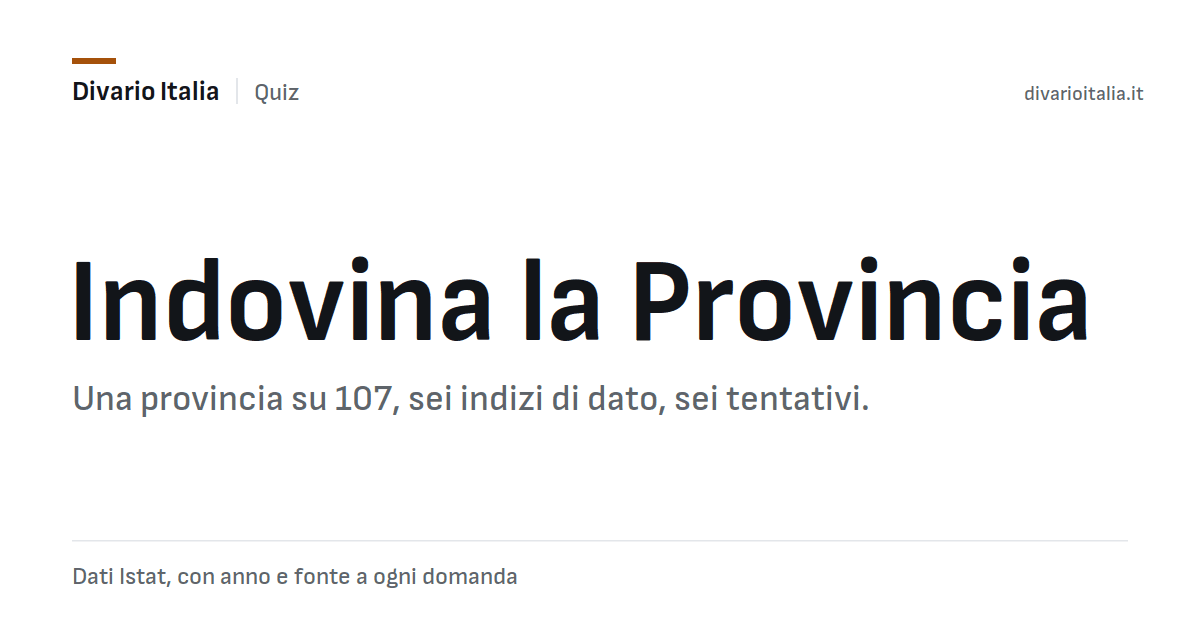
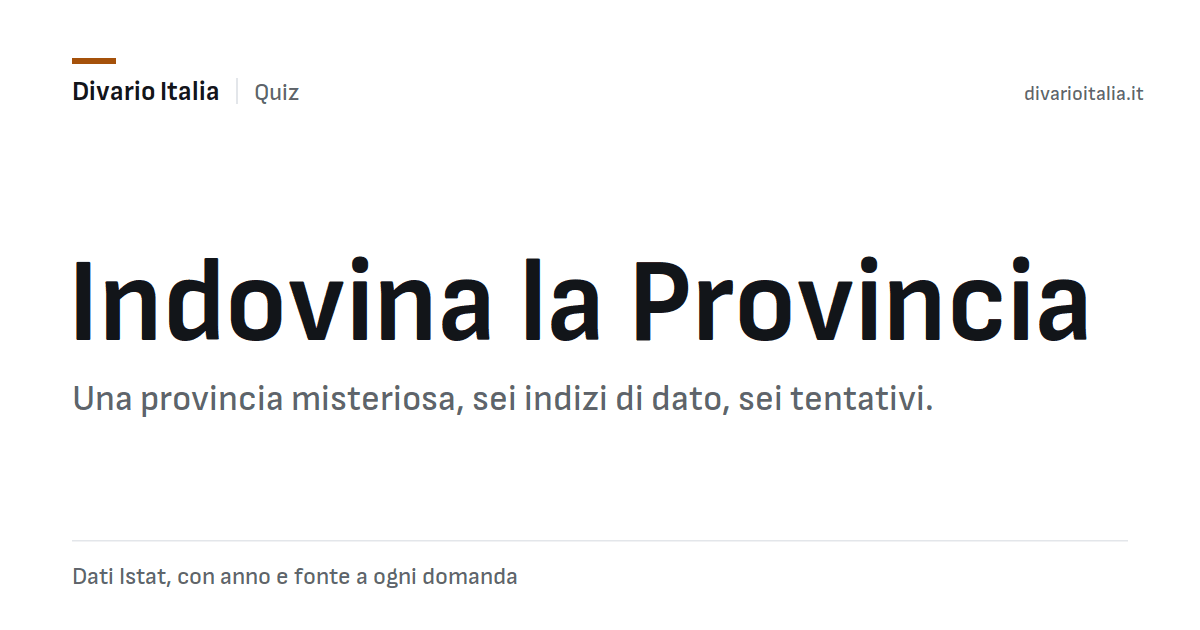
La quinta carta dell'hub: sottomenu, ItemList, home, sitemap e immagine da condividere di «Dov'è la provincia?»; Indovina la Provincia rimanda alla mappa e non dice più il numero delle province nella sua immagine

Changed region(s): [[0.2467, 0.6032, 0.7708, 0.6635]]

diff --git a/app/templates/game_hub.html b/app/templates/game_hub.html
@@ -5,7 +5,7 @@
 {% set game_active = 'hub' %}
 
 {% block title %}Sfida Italia: il quiz sui dati Istat | {{ site_name }}{% endblock %}
-{% block description %}Quattro giochi sui dati Istat di regioni e province: indovina la regione o la provincia, chi è maggiore, ordina la classifica. Fonte e anno in evidenza.{% endblock %}
+{% block description %}Cinque giochi sui dati Istat e sulla geografia: indovina regione e provincia, chi è maggiore, ordina la classifica, trova la provincia sulla mappa.{% endblock %}
 
 {% block head_extra %}
 <link rel="stylesheet" crossorigin href="{{ asset_url('dist/assets/game.css') }}">
@@ -17,12 +17,13 @@
   "@type": "ItemList",
   "name": "I giochi di Sfida Italia",
   "url": {{ canonical | tojson }},
-  "numberOfItems": 4,
+  "numberOfItems": 5,
   "itemListElement": [
     { "@type": "ListItem", "position": 1, "name": "Indovina la Regione", "url": "{{ site_url }}/quiz/indovina-la-regione" },
     { "@type": "ListItem", "position": 2, "name": "Chi è maggiore?", "url": "{{ site_url }}/quiz/chi-e-maggiore" },
     { "@type": "ListItem", "position": 3, "name": "Ordina le regioni", "url": "{{ site_url }}/quiz/ordina" },
-    { "@type": "ListItem", "position": 4, "name": "Indovina la Provincia", "url": "{{ site_url }}/quiz/indovina-la-provincia" }
+    { "@type": "ListItem", "position": 4, "name": "Indovina la Provincia", "url": "{{ site_url }}/quiz/indovina-la-provincia" },
+    { "@type": "ListItem", "position": 5, "name": "Dov'è la provincia?", "url": "{{ site_url }}/quiz/province-italiane" }
   ]
 }
 </script>
@@ -41,7 +42,7 @@
     <div class="hub-layout__hero">
       <header class="page-hero">
         <h1>Quanto conosci l'Italia?</h1>
-        <p class="page-lead">Quattro giochi rapidi sugli indicatori territoriali Istat, con anno e fonte a ogni domanda e, a ogni risposta, che cosa misura davvero il dato.</p>
+        <p class="page-lead">Cinque giochi rapidi: quattro sugli indicatori territoriali Istat, con anno e fonte a ogni domanda, e uno per imparare dove stanno le province sulla mappa.</p>
       </header>
       <p class="hub-nota">Si gioca senza registrazione: i record restano su questo dispositivo. Con un account statistiche e traguardi ti seguono. Nelle <a href="/quiz/classifica">classifiche</a> si entra anche senza account, con un nickname.</p>
     </div>
@@ -84,6 +85,13 @@
             <a class="hub-card hub-oggi__gioco" href="/quiz/ordina">
               <span class="hub-oggi__nome"><span class="ico" style="--ico: url('{{ url_for('static', filename='img/gioco/ordina.svg') }}')" aria-hidden="true"></span>Ordina le regioni</span>
               <span class="hub-card-body">Dal valore più alto al più basso, un punto per ogni posizione giusta.</span>
+              <span class="hub-oggi__stato" data-oggi-stato>Gioca</span>
+            </a>
+          </li>
+          <li data-gioco="mappa">
+            <a class="hub-card hub-oggi__gioco" href="/quiz/province-italiane">
+              <span class="hub-oggi__nome"><span class="ico" style="--ico: url('{{ url_for('static', filename='img/gioco/mappa.svg') }}')" aria-hidden="true"></span>Dov'è la provincia?</span>
+              <span class="hub-card-body">Dieci nomi da trovare sulla mappa muta: ogni errore dice di quanto.</span>
               <span class="hub-oggi__stato" data-oggi-stato>Gioca</span>
             </a>
           </li>

diff --git a/app/templates/game_provincia.html b/app/templates/game_provincia.html
@@ -17,7 +17,7 @@
   "@context": "https://schema.org",
   "@type": "Game",
   "name": "Indovina la Provincia",
-  "description": "Quiz sulle province italiane: una provincia misteriosa da indovinare a partire dai dati Istat, con la mappa come aiuto.",
+  "description": "Una provincia italiana misteriosa da indovinare a partire dai dati Istat, con la mappa come aiuto.",
   "url": {{ canonical | tojson }},
   "isPartOf": { "@type": "WebSite", "name": "Divario Italia", "url": "{{ site_url }}/" },
   "creator": { "@type": "Organization", "name": "Divario Italia", "url": "{{ site_url }}/" },
@@ -36,9 +36,7 @@
 
   <header class="page-hero">
     <h1>Indovina la Provincia</h1>
-    {# Quando esistera' la pagina a mappa per imparare dove stanno le province, il lead rimanda li'
-       per chi vuole imparare e non giocare. Fino ad allora niente link a una pagina che non c'e'. #}
-    <p class="page-lead">Una provincia italiana misteriosa, i dati Istat come indizi, la mappa che ti dice quanto sei vicino.</p>
+    <p class="page-lead">Una provincia italiana misteriosa, i dati Istat come indizi, la mappa che ti dice quanto sei vicino. Per imparare dove stanno le province, prova <a href="/quiz/province-italiane">Dov'è la provincia?</a></p>
   </header>
 
   <div class="game-layout">

diff --git a/app/templates/_game_subnav.html b/app/templates/_game_subnav.html
@@ -5,6 +5,7 @@
     <a href="/quiz/indovina-la-provincia" class="game-tab{{ ' is-active' if game_active == 'provincia' else '' }}">Indovina la Provincia</a>
     <a href="/quiz/chi-e-maggiore" class="game-tab{{ ' is-active' if game_active == 'compare' else '' }}">Chi è maggiore?</a>
     <a href="/quiz/ordina" class="game-tab{{ ' is-active' if game_active == 'order' else '' }}">Ordina le regioni</a>
+    <a href="/quiz/province-italiane" class="game-tab{{ ' is-active' if game_active == 'mappa' else '' }}">Dov'è la provincia?</a>
     <a href="/quiz/classifica" class="game-tab{{ ' is-active' if game_active == 'classifica' else '' }}">Classifica</a>
   </nav>
 </div>

diff --git a/scripts/og_giochi.py b/scripts/og_giochi.py
@@ -1,4 +1,4 @@
-"""Disegna le quattro immagini da condividere dei giochi del Quiz.
+"""Disegna le cinque immagini da condividere dei giochi del Quiz.
 
 Una figura 1200x630 per gioco in `app/static/img/og/gioco-<nome>.png`: il
 marchio, il titolo del gioco in grande, una riga che dice che cosa si fa. Stessa
@@ -27,14 +27,19 @@ DESTINAZIONE = ROOT / "app" / "static" / "img" / "og"
 
 GIOCHI = {
     "indovina-regione": ("Indovina la Regione", "Una regione misteriosa, sei indizi Istat, sei tentativi."),
-    "indovina-provincia": ("Indovina la Provincia", "Una provincia su 107, sei indizi di dato, sei tentativi."),
+    "indovina-provincia": ("Indovina la Provincia", "Una provincia misteriosa, sei indizi di dato, sei tentativi."),
     "chi-e-maggiore": ("Chi è maggiore?", "Due territori, un indicatore: quale vale di più?"),
     "ordina": ("Ordina le regioni", "Dal valore più alto al più basso, con i dati veri."),
+    "province-italiane": ("Dov'è la provincia?", "Dieci province da trovare sulla mappa muta, e ogni errore dice di quanto."),
 }
 
+# La riga in fondo dice di che cosa e' fatto il gioco: la mappa e' fatta di confini, non di indicatori.
+PIEDE = {"province-italiane": "Confini delle province Istat, 2023"}
+PIEDE_PREDEFINITO = "Dati Istat, con anno e fonte a ogni domanda"
 
-def svg(titolo: str, riga: str, m: t.Measurer) -> str:
-    for testo in (titolo, riga):
+
+def svg(titolo: str, riga: str, m: t.Measurer, piede: str = PIEDE_PREDEFINITO) -> str:
+    for testo in (titolo, riga, piede):
         for ch in t.FORBIDDEN:
             assert ch not in testo, testo
     larghezza = t.WIDTH - 2 * t.LEFT
@@ -52,7 +57,7 @@ def svg(titolo: str, riga: str, m: t.Measurer) -> str:
     for i, linea in enumerate(m.wrap(riga, larghezza, 36)):
         parti.append(t._text(t.LEFT, 410 + i * 46, linea, 36, t.MUTED))
     parti.append(f'<rect x="{t.LEFT}" y="540" width="{larghezza}" height="1.5" fill="{t.RULE}"/>')
-    parti.append(t._text(t.LEFT, 584, "Dati Istat, con anno e fonte a ogni domanda", 24, t.MUTED))
+    parti.append(t._text(t.LEFT, 584, piede, 24, t.MUTED))
     parti.append("</svg>")
     return "".join(parti)
 
@@ -63,7 +68,7 @@ def main() -> int:
         print(f"font dei titoli: {t.resolved_font(t.DISPLAY_FONT)}")
         m = t.Measurer()
         for nome, (titolo, riga) in GIOCHI.items():
-            peso = t.rasterize(svg(titolo, riga, m), DESTINAZIONE / f"gioco-{nome}.png")
+            peso = t.rasterize(svg(titolo, riga, m, PIEDE.get(nome, PIEDE_PREDEFINITO)), DESTINAZIONE / f"gioco-{nome}.png")
             print(f"gioco-{nome}.png {peso} byte")
     return 0
 

diff --git a/app/views.py b/app/views.py
@@ -3397,6 +3397,7 @@ def sitemap():
         {"loc": f"{SITE_URL}/quiz/indovina-la-provincia", "priority": "0.7"},
         {"loc": f"{SITE_URL}/quiz/chi-e-maggiore", "priority": "0.7"},
         {"loc": f"{SITE_URL}/quiz/ordina", "priority": "0.7"},
+        {"loc": f"{SITE_URL}/quiz/province-italiane", "priority": "0.7"},
         {"loc": f"{SITE_URL}/qualita-della-vita", "priority": "0.8"},
         {"loc": f"{SITE_URL}/privacy", "priority": "0.4"},
     ]
@@ -3973,6 +3974,12 @@ def _home_quiz_games():
             "desc": f"Una provincia misteriosa da trovare con gli indizi dei dati Istat, sulla mappa delle {len(game_daily.province_pool())} province.",
             "meta": "una al giorno",
             "href": "/quiz/indovina-la-provincia",
+        },
+        {
+            "name": "Dov'è la provincia?",
+            "desc": "Dieci province da trovare sulla mappa muta d'Italia, uguali per tutti. Ogni errore dice di quanto.",
+            "meta": "dieci al giorno",
+            "href": "/quiz/province-italiane",
         },
     ]
 

diff --git a/tests/integration/test_game_hub.py b/tests/integration/test_game_hub.py
@@ -239,9 +239,9 @@ class ImmaginiOgDeiGiochiTest(unittest.TestCase):
 
 
 class HubPaginaTest(unittest.TestCase):
-    def test_le_quattro_card_sono_nel_markup_del_server(self):
+    def test_le_cinque_card_sono_nel_markup_del_server(self):
         html = app.test_client().get("/quiz").get_data(as_text=True)
-        for gioco in ("indovina", "provincia", "compare", "order"):
+        for gioco in ("indovina", "provincia", "compare", "order", "mappa"):
             self.assertIn(f'data-gioco="{gioco}"', html)
         self.assertIn("data-oggi-countdown", html)
         self.assertNotIn("Come funziona il quiz", html)
